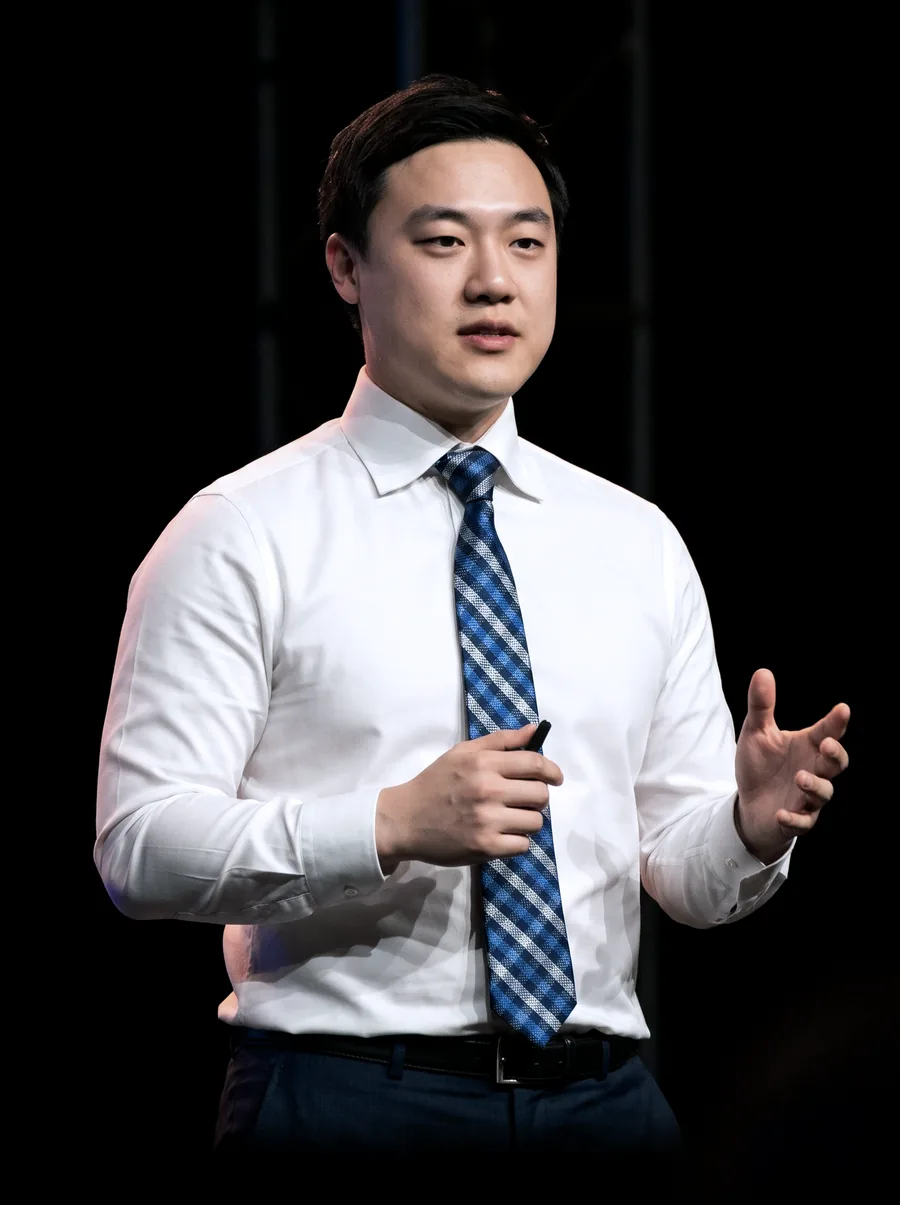
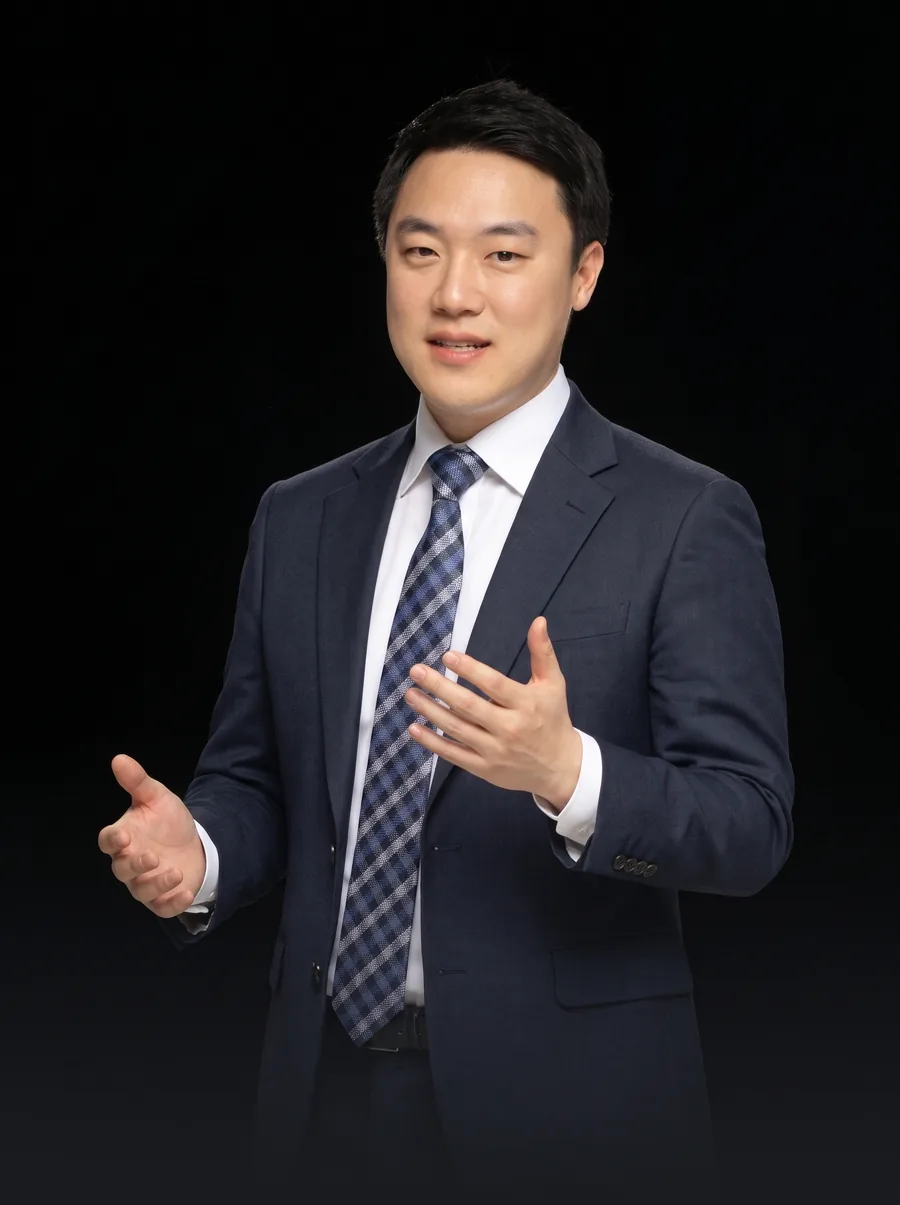
image 폴더 업데이트 반영: 연사3 사진, 메일 헤더(title back.jpg)
Claude-Session: https://claude.ai/code/session_01Mn7Nn1Mw9LaHJEmW4pK4Vg

diff --git a/index.html b/index.html
@@ -569,7 +569,7 @@ html.rg-lock{overflow:hidden}
       <ul class="spk">
         <li><img src="assets/speaker1-1.webp?v=1239" width="900" height="1205" alt="김승준 변호사" loading="lazy" decoding="async"><div class="cap"><p class="ss">세션 1</p><h3>김승준 변호사</h3><p class="org">김앤장 법률사무소</p><p class="topic">전자주주총회 제도 도입 및 진행 관련 주요 실무 쟁점</p></div></li>
         <li><img src="assets/speaker2.webp" width="900" height="1205" alt="권재열 연구소장" loading="lazy" decoding="async"><div class="cap"><p class="ss">세션 2</p><h3>권재열 연구소장</h3><p class="org">한국주주총회연구소</p><p class="topic">상법 개정과 전자주총이 몰고 올 기업 경영의 지각변동</p></div></li>
-        <li><img src="assets/speaker3-1.webp?v=1559" width="900" height="1205" alt="박성용 본부장" loading="lazy" decoding="async"><div class="cap"><p class="ss">세션 3</p><h3>박성용 본부장</h3><p class="org">IR큐더스</p><p class="topic">전자주주총회 도입·운영 방안 및 통합 솔루션 소개, 운영 시연</p></div></li>
+        <li><img src="assets/speaker3-1.webp?v=1110" width="900" height="1205" alt="박성용 본부장" loading="lazy" decoding="async"><div class="cap"><p class="ss">세션 3</p><h3>박성용 본부장</h3><p class="org">IR큐더스</p><p class="topic">전자주주총회 도입·운영 방안 및 통합 솔루션 소개, 운영 시연</p></div></li>
       </ul>
     </div>
   </section>
